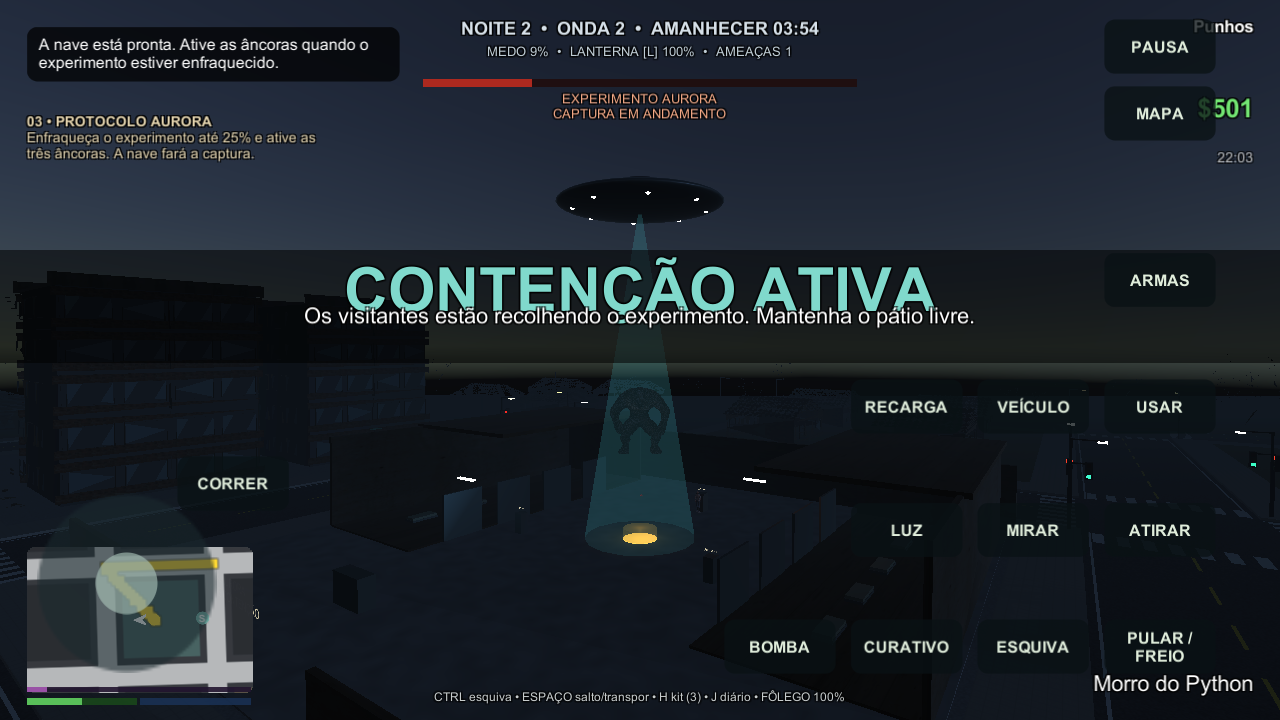
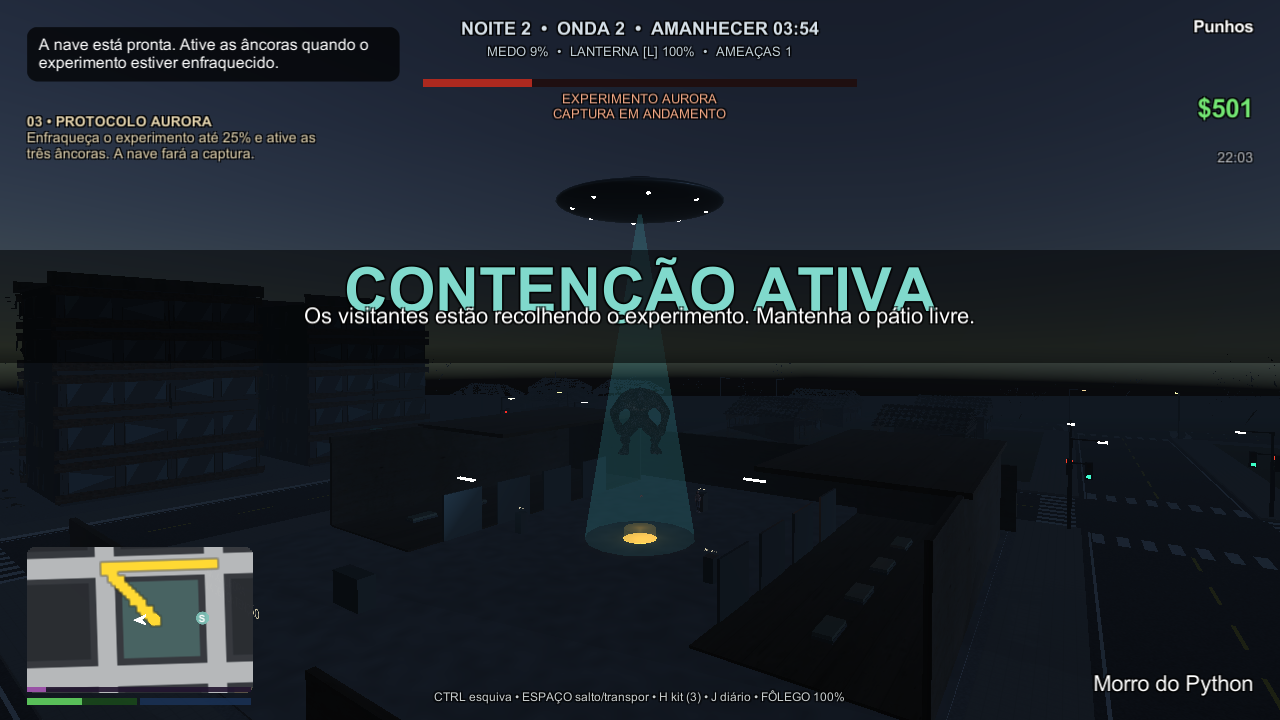
docs: registra validação final e FPS da revisão Santa Aurora

diff --git a/MELHORIAS.md b/MELHORIAS.md
@@ -1,16 +1,31 @@
 # Revisão ampliada — 20/10/2026
 
-A revisão Windows isolada em Build/Revisao foi compilada com Unity 6000.6.5f1. O autotest completo de Logs/revisao-completo8.log terminou com **FIM | erros 0 | exceções 0**. Verificou veículos, portas e amassados, dez tipos de personagem na bancada, sobrevivência, história, enigmas, estoque do abrigo, atropelamentos, Protocolo Aurora e controles por toque.
+A revisão Windows isolada em Build/Revisao foi compilada com Unity 6000.6.5f1 (Logs/revisao-build9.log, Succeeded, 349 MB). O teste dirigido final Logs/revisao-final9.log terminou com **FIM | erros 0 | exceções 0**. O autotest completo de Logs/revisao-completo8.log terminou com **FIM | erros 0 | exceções 0**. Verificou veículos, portas e amassados, dez tipos de personagem na bancada, sobrevivência, história, enigmas, estoque do abrigo, atropelamentos, Protocolo Aurora e controles por toque.
 
 O Protocolo Aurora acrescenta mansões, cães, válvulas com rota alternativa por arrombamento, prontuário, dois estabilizadores e o painel clínico. A equipe extraterrestre é aliada: recolhe civis e captura o experimento humano vivo depois que o jogador reduz sua vitalidade e ativa as três âncoras. O chefe CC0 é Giant Mutant por Eldritch Grim; o cão deriva de uma única variante do Wolf de tomek (CC0).
 
-A pausa teve o texto dos botões corrigido e ganhou foco inicial de teclado. Os rigs próximos usam quatro influências por vértice; o custo diminui à distância. A animação procedural do Carrasco continua durante a investida, com cotovelos, joelhos e coluna articulados. A virada do chefe e o início do ataque foram sincronizados. O teste mediu articulação dos dois chefes durante as investidas e cerca de 65 graus de variação máxima no esqueleto do gigante. Isso não equivale a um sistema completo de ragdoll ou animação com captura própria.
+A pausa teve o texto dos botões corrigido e ganhou foco inicial de teclado. Os rigs próximos usam quatro influências por vértice; o custo diminui à distância. A animação procedural do Carrasco continua durante a investida, com cotovelos, joelhos e coluna articulados. A virada do chefe e o início do ataque foram sincronizados. O teste mediu articulação dos dois chefes durante as investidas e variação real das rotações dos ossos do gigante. Isso não equivale a um sistema completo de ragdoll ou animação com captura própria.
 
-Analógico, câmera por arraste, ações, carrossel e retorno de menus foram preparados para toque. A regressão acionou os handlers do Canvas e confirmou abrir, escolher e equipar. O save usa diretório persistente no Android e PlayerPrefs/IndexedDB na web. **APK e WebGL ainda dependem da instalação/compilação e não estão aprovados em dispositivo.**
+Analógico, câmera por arraste, ações, carrossel e retorno de menus foram preparados para toque. A regressão acionou os handlers do Canvas e confirmou abrir, escolher e equipar. O save usa diretório persistente no Android e PlayerPrefs/IndexedDB na web. **APK e WebGL não foram gerados:** os instaladores oficiais exigiram elevação e o Windows retornou “A operação foi cancelada pelo usuário”. Os módulos não foram instalados. Os downloads assinados e a configuração de build permanecem preparados; não houve teste em celular ou navegador.
 
-Desempenho: a regressão 8 mediu 36,8 FPS com oito ameaças e lanterna, e 43,7 FPS na vista do centro em 720p/HD 4000. Essas amostras ocorreram durante outras atividades de preparação; não substituem os pares alternados. A primeira ampliação teve quedas importantes; foram adicionados descarte visual de detalhes a 95 m, luz do abrigo por vértice no perfil fraco e liberação de recursos das miniaturas. O primeiro par alternado (Logs/fps8-antes.log e fps8-depois.log), com o mesmo save SHA-256 e13ff479480ef5a47d206c8b0467074c2ef9b95dea7764442d546769d973ca31, mediu rua 39,3 → 41,3 FPS e centro 57,4 → 56,6 FPS. A variação precisa ser conferida em novas rodadas; uma única dupla não garante o resultado em toda a cidade.
+Desempenho: a regressão 8 mediu 36,8 FPS com oito ameaças e lanterna, e 43,7 FPS na vista do centro em 720p/HD 4000. Essas amostras ocorreram durante outras atividades de preparação; não substituem os pares alternados. A primeira ampliação teve quedas importantes; foram adicionados descarte visual de detalhes a 95 m, luz do abrigo por vértice no perfil fraco e liberação de recursos das miniaturas. O primeiro par alternado (Logs/fps8-antes.log e fps8-depois.log), com o mesmo save SHA-256 e13ff479480ef5a47d206c8b0467074c2ef9b95dea7764442d546769d973ca31, mediu rua 39,3 → 41,3 FPS e centro 57,4 → 56,6 FPS. As três duplas e a queda observada na terceira rodada estão detalhadas na tabela abaixo.
 
 Build/Teste e a partida Windows aberta do usuário foram preservados. Os testes executam numa saída separada e restauram seu próprio save. O mobiliário e os prédios novos continuam sendo geometria simples; não há promessa de qualidade visual de produção nem desempenho aprovado em celulares ainda.
+
+
+
+### Comparação alternada final (720p, Intel HD 4000)
+
+| Par | Rua referência | Rua revisão | Centro referência | Centro revisão |
+|---|---:|---:|---:|---:|
+| 1 | 39.3 | 41.3 | 57.4 | 56.6 |
+| 2 | 46 | 44 | 57.6 | 58.4 |
+| 3 | 41.5 | 43 | 59 | 47 |
+
+Médias: rua 42,3 → 42,8 FPS; centro 58,0 → 54,0 FPS. O terceiro par do centro (59 → 47) mostra variação e queda que não permitem afirmar equivalência completa com a referência. As duas primeiras duplas ficaram próximas. Todos os seis processos terminaram com FIM | erros 0 | exceções 0 e usaram o mesmo save. O usuário manteve sua outra cópia do jogo aberta; não foi encerrada para medir.
+
+O teste final da configuração normal (Logs/revisao-normal9.log) confirmou campanha/GPS, polícia ausente e cenário normal, terminou com FIM | erros 0 | exceções 0 e mediu **50,7 FPS** na horda. O pior quadro foi 84 ms: ainda há oscilações pontuais. Não houve teste em celular ou navegador.
+
 
 As informações abaixo registram a revisão histórica anterior; os valores de FPS e o papel do alienígena nela não descrevem a revisão ampliada.
 

diff --git a/README.md b/README.md
@@ -16,7 +16,7 @@ As naves recolhem civis para resgate e quarentena. Cães contaminados protegem a
 
 ## Imagens da revisão local
 
-Capturas reais do autotest; a interface de toque está habilitada nas imagens desta revisão.
+Capturas reais do autotest; as cenas mostram a missão de contenção e os serviços do abrigo.
 
 ![Captura do experimento pela nave aliada](Documentacao/Imagens/autotest_operacao_nave_captura.png)
 
@@ -57,7 +57,7 @@ O curativo portátil leva 1,8 segundo; movimento ou dano interrompe o uso sem co
 
 Os controles por toque incluem analógico, arraste para câmera, ações e seleção de armas. O botão VOLTAR fecha diário, enigmas, lojas e mapa. Para inspecionar o layout no Windows, use -touchcontrols.
 
-Os alvos de saída são **Build/Android/DevCityV.apk** e **Build/Web/**. A disponibilidade e a validação de cada pacote serão registradas em MELHORIAS.md; a existência dos métodos de build não significa que os pacotes foram gerados ou testados em aparelho.
+**APK e WebGL ainda não foram gerados:** a abertura dos instaladores dos módulos foi cancelada pelo Windows. Os alvos preparados são **Build/Android/DevCityV.apk** e **Build/Web/**. A disponibilidade e a validação de cada pacote serão registradas em MELHORIAS.md; a existência dos métodos de build não significa que os pacotes foram gerados ou testados em aparelho.
 
 O APK de desenvolvimento usa ARM64, orientação horizontal e save no diretório persistente do aplicativo. A versão web salva por PlayerPrefs/IndexedDB, vinculada à origem do site; limpar os dados do navegador apaga esse progresso. A web precisa ser servida por HTTP/HTTPS, sem abrir index.html diretamente pelo sistema de arquivos. Com Node.js instalado, execute `node Ferramentas/servir-web.mjs` na raiz e abra http://127.0.0.1:8080.
 
